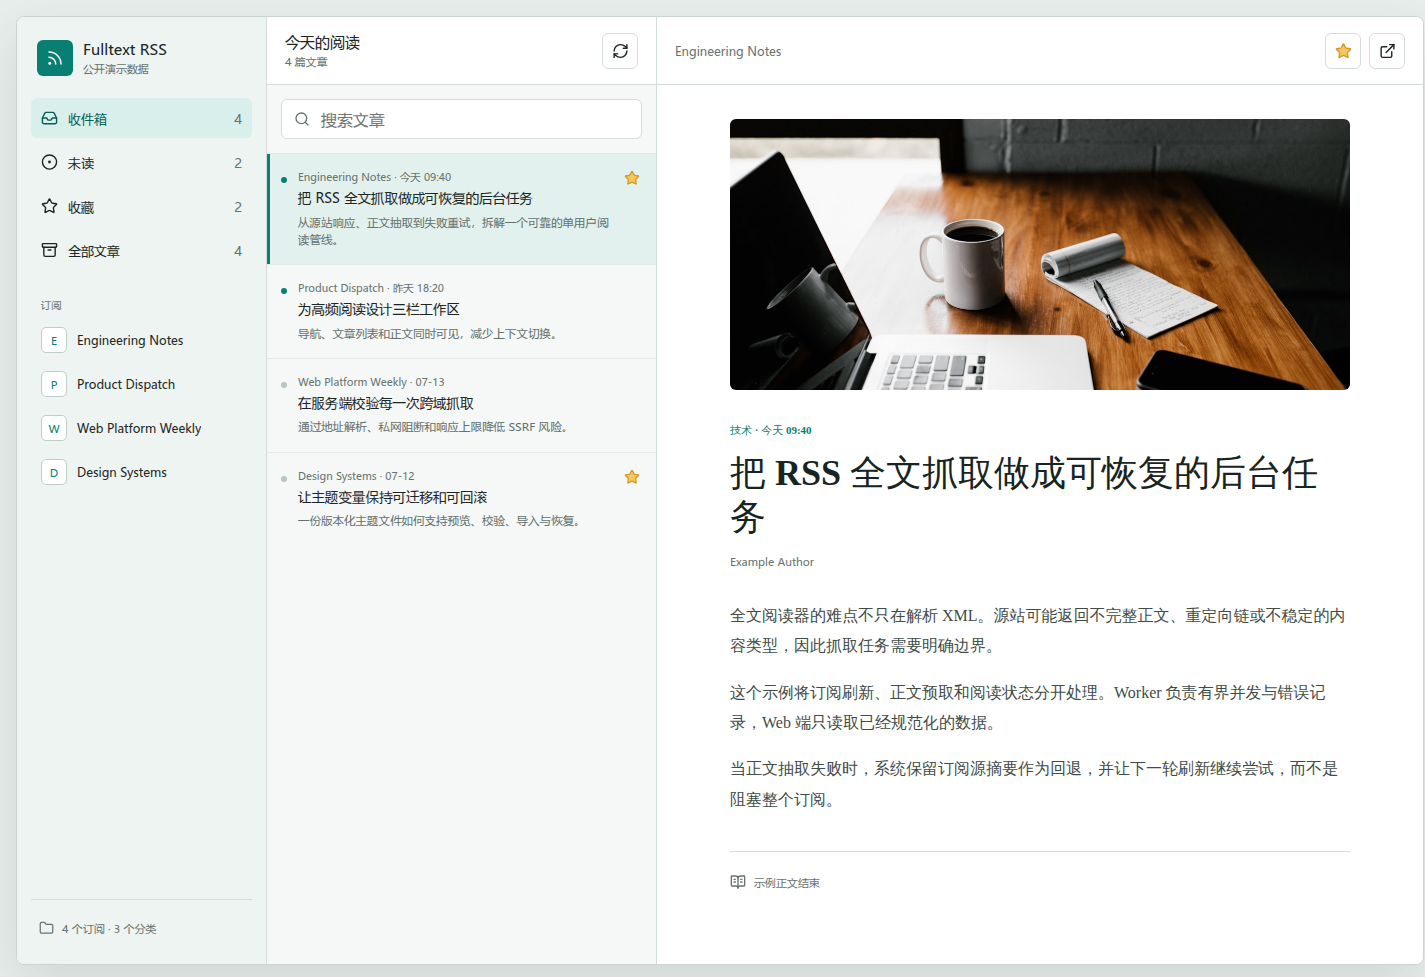
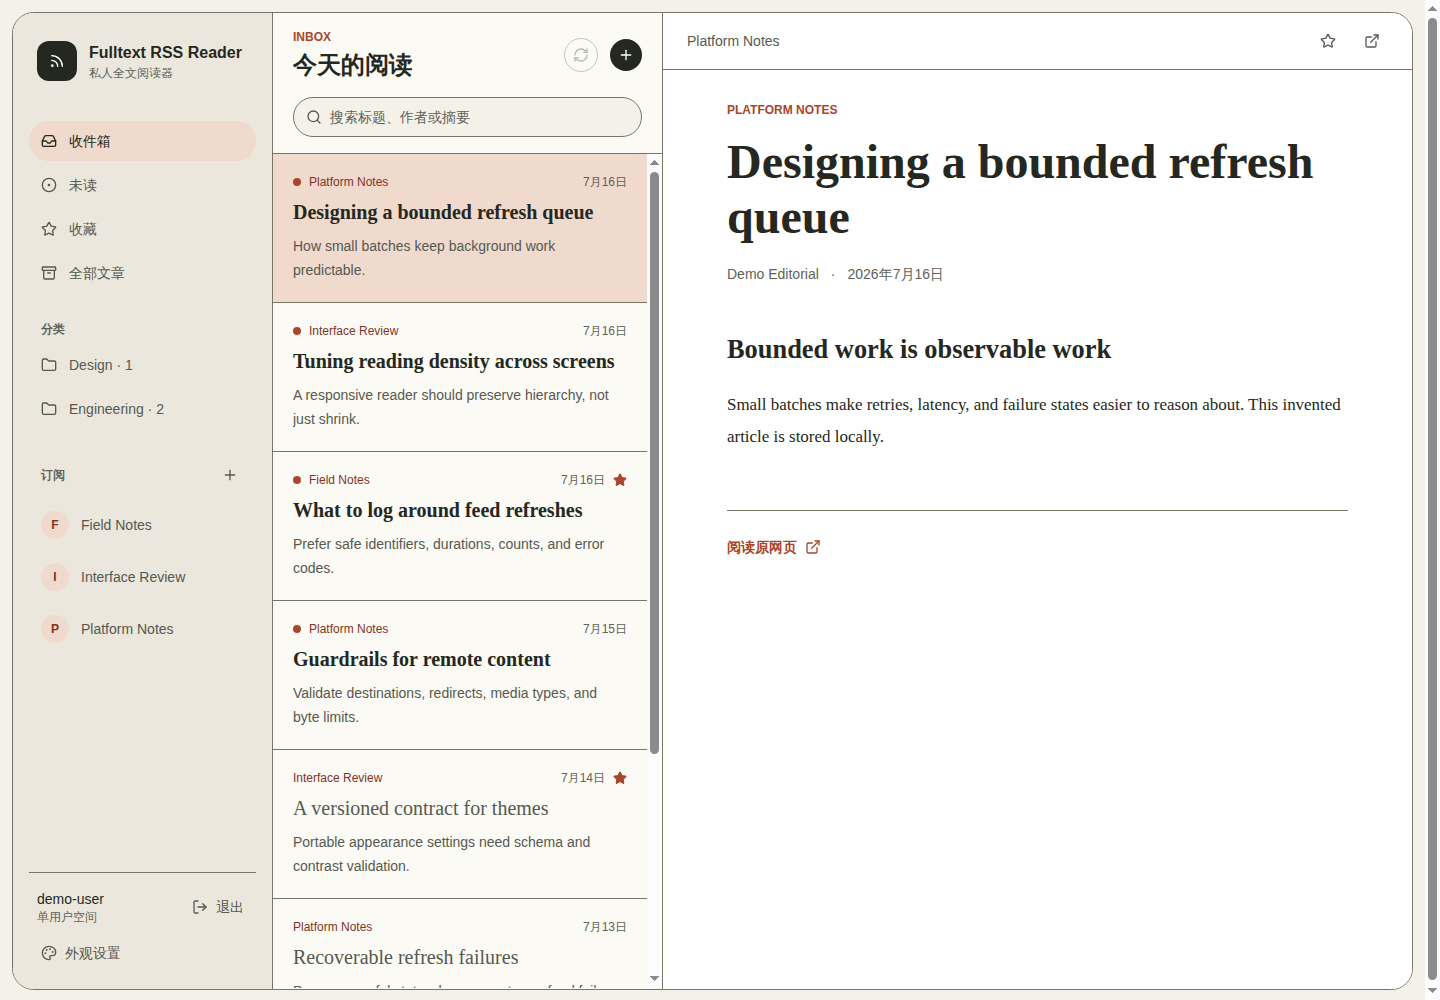
docs: refresh hosted demo guide and screenshots

diff --git a/README.zh-CN.md b/README.zh-CN.md
@@ -1,0 +1,91 @@
+# Fulltext RSS Reader
+
+[English](README.md)
+
+一个面向单用户的 RSS/Atom 全文阅读器，提供全文提取、后台刷新、受保护的远程内容抓取，以及可版本化的外观与主题设置。
+
+[在线演示](https://rss-demo.713007.xyz/) | [架构说明](docs/architecture.md) | [安全策略](SECURITY.md)
+
+![CI](https://github.com/DTSFO/fulltext-rss-reader/actions/workflows/ci.yml/badge.svg)
+
+![在线演示中的阅读器](docs/assets/demo-reader.png)
+
+以下截图来自可定期重置的公开在线演示，分别展示登录后的阅读器、新增 RSS/Atom 订阅，以及外观与主题设置。
+
+| 新增订阅 | 外观与主题 |
+| --- | --- |
+| ![新增 RSS 或 Atom 订阅](docs/assets/demo-add-feed.png) | ![外观与主题设置](docs/assets/demo-appearance.png) |
+
+## 核心能力
+
+- 基于 Next.js 16 与 React 19 的桌面端、移动端响应式阅读体验
+- 使用 Drizzle ORM 与 PostgreSQL 持久化订阅、文章和阅读状态
+- RSS/Atom 规范化与基于 Readability 的原网页全文提取
+- 独立刷新 Worker、受限批处理与可恢复的错误状态
+- Argon2 单用户认证与签名会话
+- 对 URL、重定向、地址范围、内容类型和响应体大小进行安全限制
+- 支持主题编辑、预览、导入/导出、租约与安全恢复
+- 使用 Vitest、Testing Library、Playwright 和集成测试覆盖关键流程
+
+## 在线演示
+
+在线演示运行完整的认证应用和独立、可丢弃的 PostgreSQL 数据库。使用 `demo-user` / `demo-reader` 登录后，可以新增 RSS 订阅，并体验主题创建、编辑、预览、导入和导出。
+
+为避免共享实例被滥用，演示环境限制为最多 5 个订阅、3 个自定义主题、每个订阅保留 50 篇文章；同一共享账号每分钟最多尝试新增 1 个订阅，每个订阅每 10 分钟最多手动刷新 1 次。示例数据每 6 小时恢复一次。
+
+这是共享公开账号，请勿添加私有、需要认证或包含访问凭据的订阅地址。该环境仅用于功能体验，不连接生产数据库或生产控制面。
+
+## 本地开发
+
+需要 Node.js 22、pnpm 11、Docker 与 Docker Compose。
+
+```bash
+cp .env.example .env
+pnpm install
+pnpm hash-password
+docker compose up -d postgres
+pnpm db:migrate
+pnpm dev
+```
+
+启动前，请用生成的 Argon2 哈希替换 `.env` 中故意设置的无效占位值。
+
+如需在 VPS 上运行隔离的认证演示，可使用 `docker-compose.demo.yml`，并按照[在线演示部署说明](docs/hosted-demo.md)执行确定性的重置与初始化流程。该栈只绑定回环端口，使用独立 PostgreSQL 数据卷，并且不启动后台刷新 Worker。
+
+## 质量检查
+
+```bash
+pnpm safety
+pnpm lint
+pnpm typecheck
+pnpm test
+pnpm build
+```
+
+仓库还包含依赖 Docker 的集成测试和服务端渲染 Playwright 测试，需要本机 Docker 守护进程：
+
+```bash
+pnpm test:integration
+pnpm test:e2e
+```
+
+## 仓库结构
+
+| 路径 | 用途 |
+| --- | --- |
+| `src/app` | 页面与类型化路由处理器 |
+| `src/features` | 阅读器、订阅、文章、认证、分类和外观模块 |
+| `src/jobs` | 后台订阅刷新 Worker |
+| `src/lib/http` | 受保护的外部 HTTP 访问 |
+| `src/db` 与 `drizzle` | 数据库结构、迁移和访问层 |
+| `tests` | 浏览器测试与集成场景 |
+| `docker-compose.demo.yml` | 隔离的认证演示栈 |
+| `scripts/demo-stack.sh` 与 `scripts/demo-seed.sql` | 演示环境生命周期与确定性数据重置 |
+
+## 公开版本说明
+
+本仓库是从原项目独立整理出的安全公开版本，不包含私有 Git 历史、个人订阅、生产数据库、部署凭据、Agent 会话文件或私有基础设施配置。在线演示仅使用可丢弃的虚构数据和受限配额，生产部署细节不进入本仓库。
+
+## 许可证
+
+MIT

diff --git a/README.md b/README.md
@@ -1,12 +1,20 @@
 # Fulltext RSS Reader
 
+[简体中文](README.zh-CN.md)
+
 A single-user RSS/Atom reader with full-text extraction, a background refresh worker, guarded remote fetching, and versioned appearance settings.
 
-[Live demo](https://rss-demo.713007.xyz/) | [Static demo (GitHub Pages)](https://dtsfo.github.io/fulltext-rss-reader/) | [Architecture](docs/architecture.md) | [Security](SECURITY.md)
+[Live demo](https://rss-demo.713007.xyz/) | [Architecture](docs/architecture.md) | [Security](SECURITY.md)
 
 ![CI](https://github.com/DTSFO/fulltext-rss-reader/actions/workflows/ci.yml/badge.svg)
 
-![Fulltext RSS Reader demo](docs/assets/demo-reader.png)
+![Hosted reader](docs/assets/demo-reader.png)
+
+The screenshots below are captured from the public, resettable hosted demo. They show the authenticated reader, adding an RSS/Atom subscription, and the appearance/theme controls.
+
+| Add a subscription | Edit appearance and themes |
+| --- | --- |
+| ![Add a subscription](docs/assets/demo-add-feed.png) | ![Appearance and themes](docs/assets/demo-appearance.png) |
 
 ## What is included
 
@@ -19,13 +27,11 @@ A single-user RSS/Atom reader with full-text extraction, a background refresh wo
 - Theme editing, preview, import/export, leases, and recovery
 - Vitest, Testing Library, Playwright, and integration test coverage
 
-## Demos
+## Hosted demo
 
 The hosted demo runs the authenticated application with a disposable PostgreSQL database. Sign in with `demo-user` / `demo-reader` to add RSS subscriptions and try theme editing, preview, import, and export. To keep the shared instance bounded, it allows five feeds, three custom themes, fifty retained articles per feed, one new subscription attempt per shared account each minute, and one manual refresh per feed every ten minutes. Invented seed data is restored every six hours.
 
-This is a shared public account. Do not add private, authenticated, or credential-bearing feed URLs.
-
-The GitHub Pages demo remains a static React build with embedded example feeds. Search, filters, read state, article selection, and starring are interactive in memory. It does not fetch external URLs, store credentials, connect to PostgreSQL, or expose an account.
+This is a shared public account. Do not add private, authenticated, or credential-bearing feed URLs. The demo is for feature evaluation only; it is not connected to a production database or control plane.
 
 ## Local development
 
@@ -42,12 +48,6 @@ pnpm dev
 
 Replace the deliberately invalid hash in `.env` with the generated Argon2 value before starting the application.
 
-Run the public static demo separately:
-
-```bash
-pnpm demo:dev
-```
-
 For an isolated authenticated demo on a VPS, use docker-compose.demo.yml and the deterministic reset/seed workflow documented in [Hosted demo](docs/hosted-demo.md). This stack binds only to a loopback port, uses a separate PostgreSQL volume, and does not start the background refresh worker.
 
 ## Verification
@@ -57,7 +57,7 @@ pnpm safety
 pnpm lint
 pnpm typecheck
 pnpm test
-pnpm demo:build
+pnpm build
 ```
 
 The repository also contains Docker-backed integration and server-rendered Playwright suites. These require a local Docker daemon:
@@ -77,13 +77,12 @@ pnpm test:e2e
 | `src/lib/http` | Guarded outbound HTTP access |
 | `src/db` and `drizzle` | Schema, migrations, and database access |
 | `tests` | Browser and integration scenarios |
-| `demo` | Static portfolio demo deployed to GitHub Pages |
 | `docker-compose.demo.yml` | Isolated authenticated hosted-demo stack |
 | `scripts/demo-stack.sh` and `scripts/demo-seed.sql` | Demo lifecycle and deterministic reset data |
 
 ## Public edition
 
-This repository is an independent sanitized publication. It contains no private Git history, personal subscriptions, production database, deployment credentials, Agent session files, or private infrastructure configuration.
+This repository is an independent sanitized publication. It contains no private Git history, personal subscriptions, production database, deployment credentials, Agent session files, or private infrastructure configuration. The hosted demo uses disposable, invented data and bounded quotas; production deployment details remain outside this repository.
 
 ## License
 